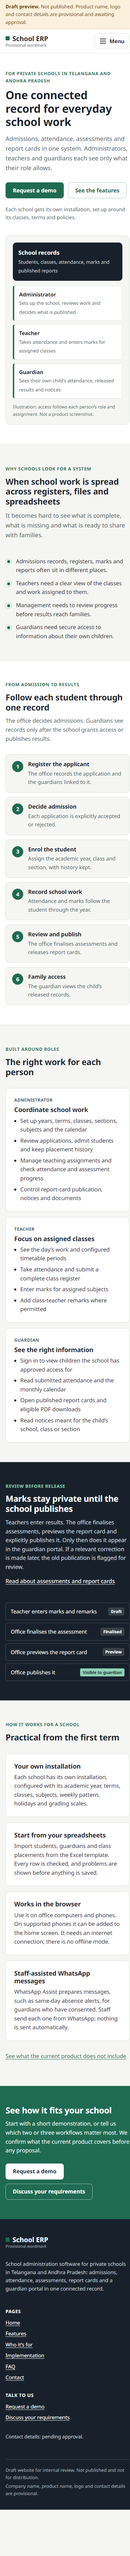
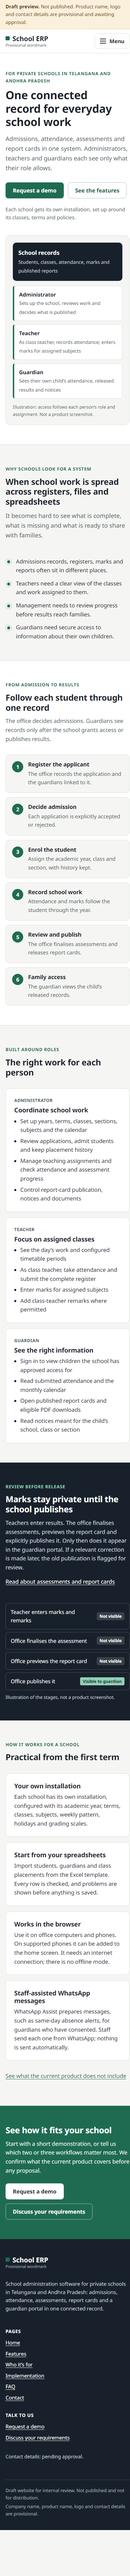
GTM-WEBSITE-02: refine marketing website and prepare launch checklist
* GTM-WEBSITE-02: refine marketing website and prepare launch checklist

Targeted refinements to the GTM-WEBSITE-01 draft; no redesign.

- Desktop navigation from 960 px (was 1040), so 1024 px laptops get it
- Lone last card in odd-numbered two-column rows spans the full row
- Diagrams shown from 900 px (was 760); text steps below that
- Contact journeys stack until 900 px; footer two-column on tablets
- Publication stages graphic captioned as an illustration
- Eight copy corrections after comparison with the feature catalogue,
  deck and sales FAQ (class-teacher attendance, principal access,
  features intro, implementation caption, demo wording)
- 'Approved diagrams' wording replaced with 'existing draft diagram assets'
- New website/PUBLICATION-READINESS.md (13 gates, all Pending or Draft
  evidence, plus the controlled launch process) and website/COPY-REVIEW.md
- Screenshots refreshed; 768 and 1024 px captures added for Home and
  Features; README and content-status updated; Astro stays 7.3.8

* GTM-WEBSITE-02: apply final review corrections

- Home hero: 'As class teacher, records attendance; enters marks for
  assigned subjects'
- PUBLICATION-READINESS: launch candidate is built and tested on an
  access-restricted, non-indexable preview before owner authorisation;
  Gate 13 approves the exact tested candidate SHA; locks stay on main
- Owner wording decisions recorded and applied: demo options subject to
[…]

diff --git a/website/src/styles/global.css b/website/src/styles/global.css
@@ -348,7 +348,7 @@ ol {
   display: none;
 }
 
-@media (min-width: 1040px) {
+@media (min-width: 960px) {
   .nav-desktop {
     display: block;
   }
@@ -617,6 +617,36 @@ ol {
   }
 }
 
+/* A lone last card in a two-column row spans the full row instead of
+   leaving an empty slot (odd-numbered card sets). */
+@media (min-width: 720px) {
+  .grid-2 > :last-child:nth-child(odd) {
+    grid-column: 1 / -1;
+  }
+}
+
+@media (min-width: 720px) and (max-width: 999px) {
+  .grid-3 > :last-child:nth-child(odd) {
+    grid-column: 1 / -1;
+  }
+}
+
+/* Enquiry journeys need more width than standard cards before pairing. */
+@media (min-width: 720px) and (max-width: 899px) {
+  .grid-2.journeys {
+    grid-template-columns: 1fr;
+  }
+}
+
+.grid-2 > .card:last-child:nth-child(odd) ul {
+  columns: 2 280px;
+  column-gap: 32px;
+}
+
+.grid-2 > .card:last-child:nth-child(odd) li {
+  break-inside: avoid;
+}
+
 .card {
   background: var(--surface);
   border: 1px solid var(--rule);
@@ -807,6 +837,16 @@ ol {
   }
 }
 
+.publish-figure {
+  margin: 0;
+}
+
+.publish-figure figcaption {
+  margin-top: 10px;
+  font-size: 0.82rem;
+  color: #c9d1da;
+}
+
 .publish-flow {
   list-style: none;
   margin: 0;
@@ -981,7 +1021,7 @@ tbody th {
   color: var(--brand-strong);
 }
 
-/* Diagram figures: approved SVGs on wider screens, text steps on phones */
+/* Diagram figures: existing draft diagram assets (diagrams/svg) on wide screens, text steps below 900px */
 .diagram {
   margin: 0;
 }
@@ -1006,7 +1046,7 @@ tbody th {
   margin-top: 12px;
 }
 
-@media (min-width: 760px) {
+@media (min-width: 900px) {
   .diagram-figure {
     display: block;
   }
@@ -1167,7 +1207,17 @@ tbody th {
   gap: 32px;
 }
 
-@media (min-width: 800px) {
+@media (min-width: 600px) and (max-width: 899px) {
+  .footer-grid {
+    grid-template-columns: 1fr 1fr;
+  }
+
+  .footer-grid > :first-child {
+    grid-column: 1 / -1;
+  }
+}
+
+@media (min-width: 900px) {
   .footer-grid {
     grid-template-columns: 1.4fr 1fr 1fr;
   }

diff --git a/website/PUBLICATION-READINESS.md b/website/PUBLICATION-READINESS.md
@@ -1,0 +1,76 @@
+# Marketing website — publication readiness
+
+Status: **Draft. Not approved for publication.** Prepared in GTM-WEBSITE-02 on 2026-11-10 against `main` at `dab51eb`.
+
+The website in `website/` stays unpublished until **every gate below is approved by its owner** and Gate 13 (launch authorisation) is recorded for a specific, already-tested candidate commit. Nothing in this file authorises deployment, domain registration, indexing or enquiry collection.
+
+## How to use this checklist
+
+- Each gate has an owner, the evidence needed, and a status.
+- Statuses: **Pending** (no decision yet), **Draft evidence** (work exists but is not approved), **Approved** (owner has approved, with date and evidence link). Only the owner may set **Approved**.
+- When a gate is approved, record the date, the approver's role and a link to the evidence (PR, document or message reference) in the "Decision record" column. Do not record personal contact details in this file.
+- If a later change affects an approved gate (for example a copy change after copy approval), set it back to **Pending**.
+
+Roles used below: **Owner** (business owner and final decision-maker), **Web lead** (whoever maintains `website/`), **Legal adviser** (the business's legal or compliance adviser), **Product lead** (whoever verifies claims against the `school-erp` application).
+
+## Approval gates
+
+| # | Gate | Owner | Evidence required | Status | Decision record |
+|---|---|---|---|---|---|
+| 1 | Final company and product names | Owner | Written decision on company name, product name and how the product is referred to in copy; name-availability check if wanted | Pending | |
+| 2 | Logo and identity assets | Owner | Approved logo files imported into `brand/logos/`, logo rules added to `brand/brand-guidelines.md`, favicon and social image derived from them; provisional wordmark replaced | Pending | |
+| 3 | Website copy approval | Owner, with Product lead | Copy-review log (`website/COPY-REVIEW.md`) resolved; every claim re-checked against the current feature catalogue and a deployed build; owner sign-off per page | Draft evidence | |
+| 4 | Contact email, telephone/WhatsApp and address | Owner | Approved, monitored business contact channels; decision on whether a postal address is shown; "Areas served" confirmed | Pending | |
+| 5 | Domain selection and ownership | Owner | Chosen domain registered in the business's own account (not a personal or vendor account); registrar access, renewal owner and DNS ownership documented | Pending | |
+| 6 | Hosting and deployment architecture | Owner, with Web lead | Written choice of static host, account holder, how deployments are triggered (manual or from `main`), rollback method, TLS, security headers and cost owner | Pending | |
+| 7 | Privacy notice and legal review | Legal adviser, then Owner | Privacy notice covering any personal data the site collects (none today), cookies, hosting-provider logs and contact handling; legal review of all public claims, including the DPDP wording | Pending | |
+| 8 | Enquiry workflow decision | Owner | Decision between (a) contact details only, as now, or (b) an enquiry form; for (b): fields, consent text, processor, storage location, retention, spam protection and who answers enquiries; Gate 7 updated to match | Pending | |
+| 9 | Analytics and cookie decisions | Owner, with Legal adviser | Decision to use no analytics (as now) or a named tool; if a tool is chosen: cookies set, consent mechanism, data location and privacy-notice update | Pending | |
+| 10 | Search indexing and SEO configuration | Web lead, then Owner | Approved domain set as Astro `site`; canonical URLs, Open Graph/social image and `sitemap.xml`; final titles and descriptions reviewed; launch plan below agreed | Pending | |
+| 11 | Final accessibility and cross-browser checks | Web lead | Keyboard, screen-reader spot check, contrast and 200% zoom on the launch candidate deployed to the access-restricted, non-indexable preview; latest Chrome, Edge, Firefox and Safari (desktop), Chrome on Android and Safari on iOS; results recorded against the candidate commit SHA | Draft evidence | |
+| 12 | Performance and security checks | Web lead | Lighthouse (or equivalent) on the access-restricted preview of the launch candidate; security headers (HSTS, CSP, X-Content-Type-Options, Referrer-Policy) confirmed; `npm audit` clean; no secrets or personal data in the repository or build; results recorded against the candidate commit SHA | Draft evidence | |
+| 13 | Owner authorisation for public launch | Owner | Written go-live authorisation naming the **final candidate commit SHA** (the head of the launch-candidate PR that passed Gates 11 and 12 on the preview) and the launch date, given after Gates 1–12 are Approved. Any new commit to the candidate invalidates this approval | Pending | |
+
+Related item outside the website itself:
+
+| # | Item | Owner | Evidence required | Status |
+|---|---|---|---|---|
+| R1 | Demonstration environment | Owner, with Product lead | A rehearsed demo environment with fictional data and authorised logins, so a "Request a demo" enquiry can be fulfilled (see `demo/demo-checklists/pre-demo-readiness.md`) | Pending |
+
+### Draft evidence already available
+
+- **Gate 3:** GTM-WEBSITE-02 copy review in `website/COPY-REVIEW.md`; copy checked against `docs/product/feature-catalogue.md`, the client deck and the sales FAQ, not yet against a deployed build.
+- **Gate 11:** local preview checked at 390, 768, 1024 and 1440 px in Chromium: no horizontal overflow, keyboard navigation through the skip link and menu, visible focus, all text contrast ≥ 5.8:1. Other browsers and screen readers not yet tested.
+- **Gate 12:** `npm audit` reports 0 vulnerabilities for Astro 7.3.8; the build makes no external requests and loads no third-party scripts, fonts or images; about 153 KiB in total. No deployed URL exists, so headers and Lighthouse are untested.
+
+## Controlled process for going public (do not perform yet)
+
+These protections are deliberately in place now and stay on `main` until launch. They are removed only in one dedicated **launch-candidate pull request** titled `GTM-WEBSITE-<NN>: enable public indexing`, opened after Gates 1–10 are Approved. That PR is built and tested on an access-restricted, non-indexable preview, and it is merged and deployed publicly **only** after Gate 13 approves its exact head commit.
+
+| Protection | Where | Change at launch |
+|---|---|---|
+| `noindex, nofollow` robots meta | `src/layouts/BaseLayout.astro` | Remove the tag (or set `index, follow`) |
+| Robots block | `public/robots.txt` | Replace `Disallow: /` with an allow rule and a `Sitemap:` line for the approved domain |
+| Draft banner | `src/layouts/BaseLayout.astro` (`.draft-notice`) | Remove |
+| Draft footer lines | `src/components/SiteFooter.astro` (`.footer-base`) | Replace with the approved company line and privacy-notice link |
+| "Provisional wordmark" label | `src/data/site.ts` (`wordmarkNote`), header and footer | Replace with the approved logo per Gate 2 |
+| Pending contact placeholders | `src/pages/contact.astro`, footer | Replace with approved channels per Gate 4 |
+| Draft-state site checks | `scripts/check-site.mjs` | Update the noindex, robots, canonical/Open Graph and contact-link rules to the approved launch rules in the same PR, so CI keeps guarding the published state |
+
+Launch sequence:
+
+1. **Prerequisites.** Gates 1–10 show **Approved** with decision records. Gates 11–13 are still open.
+2. **Create the candidate.** Open the launch-candidate PR as a Draft. Make only the changes in the table above, plus the approved identity, contact and SEO values. Run `npm ci`, `npm run check` and the full CI workflow.
+3. **Restricted preview.** Deploy the candidate's head commit to a preview that is access-restricted (password, allow-list or host authentication) and non-indexable (an `X-Robots-Tag: noindex, nofollow` response header from the host, because the candidate itself no longer carries the `noindex` meta tag). The preview URL is not shared publicly or linked from anywhere.
+4. **Test the candidate.** Complete Gates 11 and 12 on that preview and record the results against the candidate commit SHA. Attach screenshots of every page at 390 px and 1440 px. If any fix is needed, push it, redeploy the preview and repeat this step for the new head SHA.
+5. **Authorise the exact commit.** The owner records Gate 13, naming the tested candidate commit SHA. A later commit to the candidate cancels the authorisation and returns to step 4.
+6. **Merge and launch.** Merge only on the owner's written instruction, pinned to the authorised SHA (for example `gh pr merge --match-head-commit <sha>`). Deploy production from the resulting merge commit, whose content must match the authorised candidate. Then remove the restricted preview.
+7. **Record.** Add the published commit and date to `docs/content-status.md`; the owner sets the status to **Published**.
+
+Until step 6, every publication lock in the table above remains in place on `main`.
+
+Rollback: redeploy the previous commit, or restore `noindex` and `Disallow: /` and redeploy, if anything published proves wrong.
+
+## Deliberately absent today
+
+No forms, analytics, cookies, third-party requests, contact channels, domain, hosting, canonical or social tags, and no claims about pricing, service levels, licensing or unsupported features.

diff --git a/website/COPY-REVIEW.md b/website/COPY-REVIEW.md
@@ -1,0 +1,53 @@
+# Marketing website — copy review log
+
+Status: **Draft.** GTM-WEBSITE-02, 2026-11-10. Supports Gate 3 in [`PUBLICATION-READINESS.md`](PUBLICATION-READINESS.md). Does not approve any copy.
+
+## Sources compared
+
+- `docs/product/feature-catalogue.md` (areas M01–M12 and "Current boundaries and future requests")
+- `presentations/marp/school-erp-client-deck.md`
+- `sales/faq/sales-faq.md` (internal; only public-safe answers reused)
+- `brand/brand-guidelines.md` (tone and claims rules)
+
+Every page (`/`, `/features/`, `/who-its-for/`, `/implementation/`, `/faq/`, `/contact/`) and the shared header, footer and call-to-action band were read in full. The comparison is against documents only; **no deployed build was checked** (required before Gate 3 can be approved).
+
+## Corrections made in this PR
+
+| Page | Before | After | Reason |
+|---|---|---|---|
+| Home (hero illustration) | Teacher "Takes attendance and enters marks for assigned classes" | "As class teacher, records attendance; enters marks for assigned subjects" (final review wording) | Attendance is captured by the class teacher for their class (M05 04); marks follow subject assignments (M06 02) |
+| Home (Teacher card) | "Take attendance and submit a complete class register" | "As class teacher, take attendance and submit the complete register" | Same: not every teacher takes attendance |
+| Home (publication band) | Stage chips "Draft / Finalised / Preview" looked like product status labels | Chips read "Not visible" until "Visible to guardian", with the caption "Illustration of the stages, not a product screenshot" | Avoid implying exact application labels; the point is guardian visibility (M06 08) |
+| Who it's for (Teachers) | "Assigned classes only"; "Class attendance on the school day" | "Assigned classes and subjects"; "Daily attendance for their class (class teachers)" | Subject teachers enter marks; attendance is class-teacher work |
+| Who it's for (Principals) | Implied a separate principal role | Adds "using an administrator account with the permissions the school assigns" | The product has administrator, teacher and guardian boundaries (M12 01); no separate principal role is documented |
+| Features (intro) | "Everything below is in the current product" | "The twelve areas below are in the current product… Requests that are not included are listed at the end of the page" | The same page also lists excluded requests, so "everything below" was ambiguous |
+| Implementation (diagram caption) | "Each stage is confirmed with the school before the next begins" | "Six stages, from the first requirements conversation to launch and support" | A process commitment not stated in the diagram or sales materials |
+| Contact (Request a demo) | "using fictional school data" | "using a demonstration school with fictional data" | Clearer; the live demo environment itself is still readiness item R1 |
+
+## Checked and unchanged
+
+- Boundaries: fee collection and payments, native apps, offline working, automatic WhatsApp/SMS/email, bulk rollover, transfer certificates, multi-school SaaS, ranks/GPA/board rules and extra modules appear only as **not included** (Features table, Who it's for callout, FAQ). Matches the catalogue's boundaries table.
+- WhatsApp Assist is described as preparing messages that staff send; consent rechecks match M09 04–M09 10.
+- The PWA is described as installable on supported devices and online-only, with no offline mode, background sync or push (M12 11).
+- Telugu: only PDF fonts are claimed; the interface is stated to be English (catalogue interpretation notes).
+- Feature cards M01–M12 each restate catalogue items; no new capability was added.
+- Commercial wording describes the model only (setup fee, annual support, hosting separate, additional development quoted). No prices, discounts, SLAs, support hours, licensing or ownership terms appear.
+- DPDP: the FAQ states that no compliance claim is made and that each school should take its own advice, consistent with the sales FAQ.
+
+## Owner wording decisions (recorded 2026-11-10)
+
+These are wording decisions for the draft. They do not approve the copy (Gate 3 stays open).
+
+| Topic | Decision | Applied wording |
+|---|---|---|
+| Short and detailed demo options | May be advertised conditionally, subject to scheduling and demo readiness | Contact: "A short executive version or a longer, detailed session can be arranged, subject to scheduling and demo readiness." |
+| Hosting | Costs and responsibilities may be described as separately identified in the school-specific proposal, subject to final agreement | Implementation and FAQ: "Hosting costs and responsibilities are identified separately in the school-specific proposal, subject to final agreement." The FAQ question "Why is hosting shown separately?" became "How are hosting costs handled?" |
+
+## Open items for the owner (not changed)
+
+| Item | Where | Question |
+|---|---|---|
+| "Areas served: Telangana and Andhra Pradesh" | Contact | Confirm this is the public service area (Gate 4) |
+| "Our implementation team" responsibilities | Implementation | Confirm the team description and the training offer before publication |
+| Product name "School ERP" | Everywhere | Provisional until Gate 1 |
+| Same-day absence alerts as a WhatsApp Assist example | Home, FAQ | Catalogue item M09 06; re-verify on the deployed build |

diff --git a/docs/content-status.md b/docs/content-status.md
@@ -30,6 +30,8 @@ Statuses: **Not yet imported** → **Draft** → **Approved** → **Published**.
 | Sales FAQ | `sales/faq/sales-faq.md` | Draft | | 2026-11-10 | GTM-SALES-01, internal review only: management questions and product boundaries; verify against deployed build |
 | Objection handling | `sales/objection-handling/common-objections.md` | Draft | | 2026-11-10 | GTM-SALES-01, internal review only: eight core objections plus quick answers; no unagreed terms |
 | CI quality gates | `.github/workflows/quality-checks.yml`, `scripts/ci/`, `docs/CI.md` | Draft | | 2026-11-10 | GTM-CI-01: documentation strict build, nav and exclusion checks; Marp 4.5.1 validation and render smoke test; GTM-DEMO-AUTO-01 adds an offline demo-automation job; validation only, no deployment |
-| Marketing website | `website/` | Draft | | 2026-11-10 | GTM-WEBSITE-01: six-page static Astro 7.3.8 site; copy from feature catalogue, client deck and sales FAQ; provisional text wordmark; contact details pending; `noindex` + `robots.txt` block; no forms or tracking; local preview only, not deployed |
-| Marketing website QA screenshots | `website/screenshots/marketing-site/` | Draft | | 2026-11-10 | GTM-WEBSITE-01: 390 px and 1440 px captures of the local draft site plus open phone menu; no school data; not application screenshots |
+| Marketing website | `website/` | Draft | | 2026-11-10 | GTM-WEBSITE-01: six-page static Astro 7.3.8 site; provisional wordmark; contact details pending; `noindex` + `robots.txt` block; no forms or tracking; local preview only, not deployed. GTM-WEBSITE-02: responsive refinements (nav from 960 px, odd card rows, diagrams from 900 px, contact and footer tablet layout) and eight copy corrections |
+| Marketing website QA screenshots | `website/screenshots/marketing-site/` | Draft | | 2026-11-10 | Refreshed in GTM-WEBSITE-02: every page at 390 and 1440 px, Home and Features at 768 and 1024 px, open phone menu; local draft only; no school data; not application screenshots |
+| Website publication-readiness checklist | `website/PUBLICATION-READINESS.md` | Draft | | 2026-11-10 | GTM-WEBSITE-02: 13 approval gates with owner, evidence and status (all Pending or Draft evidence) and the controlled launch process; authorises nothing |
+| Website copy review log | `website/COPY-REVIEW.md` | Draft | | 2026-11-10 | GTM-WEBSITE-02: comparison with feature catalogue, deck and sales FAQ; corrections and open owner questions; deployed-build check still required |
 | Playwright demo automation foundation | `demo/playwright/` | Draft | | 2026-11-10 | GTM-DEMO-AUTO-01: read-only Admin/Teacher/Guardian scenes and 8/30-minute sequences; routes verified in `school-erp` source (`main` c6284df) only; 11 scenes implemented, 7 provisional, 7 unavailable; no live or staging run yet; screenshots off and never for staging |

diff --git a/website/README.md b/website/README.md
@@ -52,12 +52,19 @@ The same check runs in CI (`.github/workflows/quality-checks.yml`, job "Marketin
 - Graphite & Institutional Green tokens from `brand/brand-guidelines.md`; cobalt is used only for the information callout
 - Noto Sans 400/700 (Latin subset) self-hosted through `@fontsource/noto-sans`; system fallbacks
 - Provisional text wordmark labelled "Provisional wordmark"; no logo is invented
-- Visuals are CSS explanations or the approved SVGs in `diagrams/svg/` (imported directly so there is one source). Diagrams show from 760 px wide; phones get the same steps as text
+- Visuals are CSS explanations or the existing draft diagram assets in `diagrams/svg/` (imported directly so there is one source; their content-register status is Draft). Diagrams show from 900 px wide; narrower screens get the same steps as text, and each diagram has full alt text
+- Desktop navigation shows from 960 px; below that the `<details>` menu is used
+- Odd-numbered card sets: a lone last card spans the full row instead of leaving an empty slot
 - No application screenshots are used. The documentation-portal screenshots in `screenshots/docs-portal/` are not used on the site
 
 ## Screenshots
 
-`screenshots/marketing-site/` holds QA captures of this draft site only (390 px and 1440 px for each page, plus the open phone menu). They contain no school data.
+`screenshots/marketing-site/` holds current QA captures of this draft site only: every page at 390 px and 1440 px, Home and Features also at 768 px and 1024 px, and the open phone menu. They contain no school data and are not application screenshots. Refreshed in GTM-WEBSITE-02.
+
+## Publication readiness and copy review
+
+- [`PUBLICATION-READINESS.md`](PUBLICATION-READINESS.md) — the 13 approval gates (owner, evidence, status) and the controlled process for removing `noindex`, the robots block and draft notices. All gates are Pending or Draft evidence.
+- [`COPY-REVIEW.md`](COPY-REVIEW.md) — page-by-page comparison with the feature catalogue, deck and sales FAQ; corrections made and open questions for the owner.
 
 ## Pending decisions before publication
 
